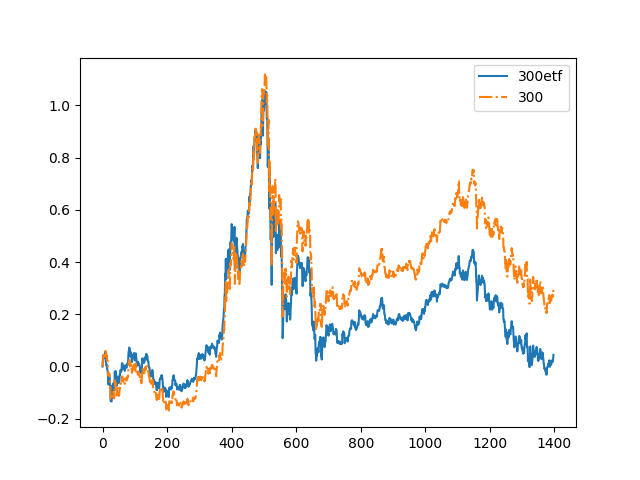
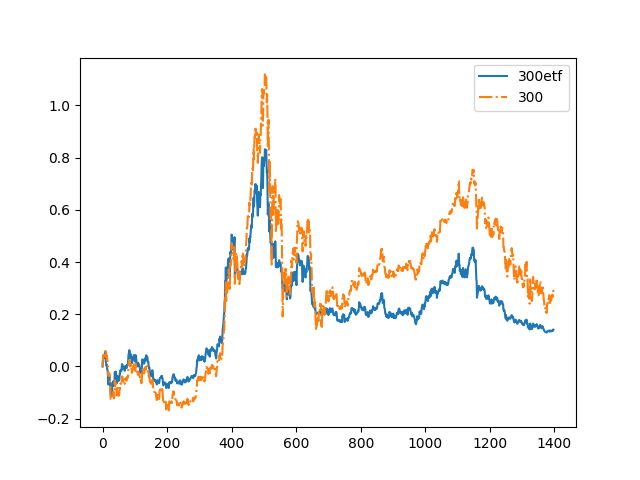
除了计算回测指标外，基本完成了模拟交易框架，但结果可能还有些问题，尤其是纳指etf

diff --git a/simulate.py b/simulate.py
@@ -69,7 +69,7 @@ class simulate(object):
         
     # 判断是否进行止盈操作，根据days前的交易情况，code为0或1
     def isStopProfit(self, code, days):
-        return False # 测试用
+        # return False # 测试用
         price = self.data[code]["close"][days]
         # 没有正在进行止盈
         if self.bStop[code] == False:
@@ -106,7 +106,7 @@ class simulate(object):
         # 更新数据
         # 只有股票数量大于一手并且交易金额小于预定金额才做
         if num > 100 and value + fee <= money:
-            print("止盈前", code, days, self.value[code][days], self.cost[code][days], self.stock[code][days], self.rate[code][days], num, value, fee)
+            # print("止盈前", code, days, self.value[code][days], self.cost[code][days], self.stock[code][days], self.rate[code][days], num, value, fee)
             self.money_cut[code] += value - fee
         
             # print("a", code, days, money, num, value, fee)
@@ -120,14 +120,14 @@ class simulate(object):
             # print(self.cost[code])
             # print(self.value[code])
             # print(self.rate[code])
-            print("止盈后", code, days, self.value[code][days], self.cost[code][days], self.stock[code][days], self.rate[code][days], num, value, fee)
+            # print("止盈后", code, days, self.value[code][days], self.cost[code][days], self.stock[code][days], self.rate[code][days], num, value, fee)
         else:
             self.bStop[code] = False
         
 
     # 判断是否需要重新购买
     def isReturnBuy(self, code, days):
-        return False #测试用
+        # return False #测试用
         # 如果进行了止盈，判断是否停止止盈
         if self.bStop[code] == True or self.bStart[code] == True:
             price = self.data[code]["close"][days]
@@ -154,12 +154,12 @@ class simulate(object):
         if num <= 100 or value + fee > money:
             self.bStart[code] = False
         else: # 进行交易并更新数据。
-            print("停止止盈前", code, days, self.value[code][days], self.cost[code][days], self.stock[code][days], self.rate[code][days], num, value, fee)
+            # print("停止止盈前", code, days, self.value[code][days], self.cost[code][days], self.stock[code][days], self.rate[code][days], num, value, fee)
             self.stock[code][days] += num
             self.value[code][days] += value
             self.fee[code][days] += fee
             self.money_cut[code] -= value+fee
-            print("停止止盈后", code, days, self.value[code][days], self.cost[code][days], self.stock[code][days], self.rate[code][days], num, value, fee)
+            # print("停止止盈后", code, days, self.value[code][days], self.cost[code][days], self.stock[code][days], self.rate[code][days], num, value, fee)
 
     # 进行交易
     def doTrade(self, days):
@@ -195,12 +195,12 @@ class simulate(object):
             self.stock[0][days] = num0 + self.stock[0][days - 1]
             self.value[0][days] = self.stock[0][days] * self.data[0]["close"][days]
             self.fee[0][days] = fee0 + self.fee[0][days - 1]
-            self.rate[0][days] = self.value[0][days] / self.cost[0][days] -1.0
+            self.rate[0][days] = (self.value[0][days] + self.money_cut[0])/ self.cost[0][days] -1.0
             self.cost[1][days] = cost1 + self.cost[1][days - 1]
             self.stock[1][days] = num1 + self.stock[1][days - 1]
             self.value[1][days] = self.stock[1][days] * self.data[1]["close"][days]
             self.fee[1][days] = fee1 + self.fee[1][days - 1]
-            self.rate[1][days] = self.value[1][days] / self.cost[1][days] -1.0
+            self.rate[1][days] = (self.value[1][days] + self.money_cut[1])/ self.cost[1][days] -1.0
         # print(days, self.cost[0][days], self.stock[0][days], self.value[0][days], self.rate[0][days], self.rate[1][days])
             
         
@@ -260,7 +260,7 @@ class simulate(object):
             else:
                 for code in range(2):
                     self.update(code, days)
-            print("位置a", days, self.value[0][days], self.cost[0][days], self.rate[0][days], self.value[1][days], self.cost[1][days], self.rate[1][days], self.totalrate[days])
+            # print("位置a", days, self.value[0][days], self.cost[0][days], self.rate[0][days], self.value[1][days], self.cost[1][days], self.rate[1][days], self.totalrate[days])
             if days == 0:
                 self.minPrice[0] = self.data[0]["close"][0]
                 self.minPrice[1] = self.data[1]["close"][0]
@@ -283,7 +283,7 @@ class simulate(object):
             # for code in range(2):
             #     self.cutUpdate(code, days)
             self.combine(days)
-            print("位置b", days, self.value[0][days], self.cost[0][days], self.rate[0][days], self.value[1][days], self.cost[1][days], self.rate[1][days], self.totalrate[days])
+            # print("位置b", days, self.value[0][days], self.cost[0][days], self.rate[0][days], self.value[1][days], self.cost[1][days], self.rate[1][days], self.totalrate[days])
             self.tradeTimes += 1
             # print(days, self.totalcost[days], self.totalvalue[days], self.totalrate[days])
         self.getIndex()
